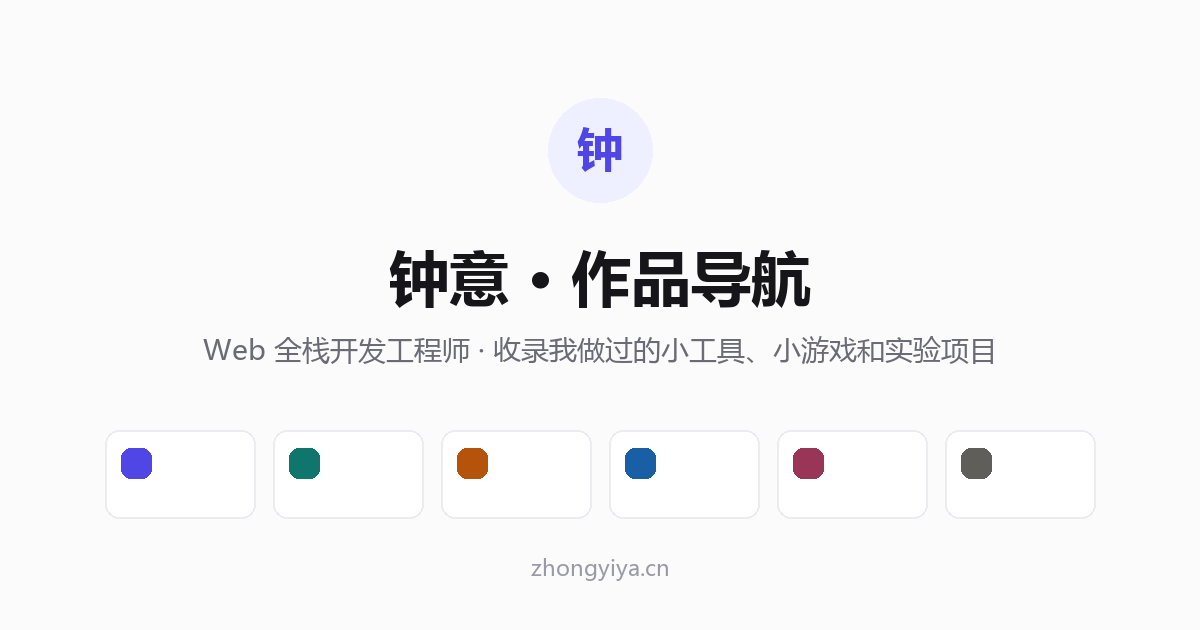
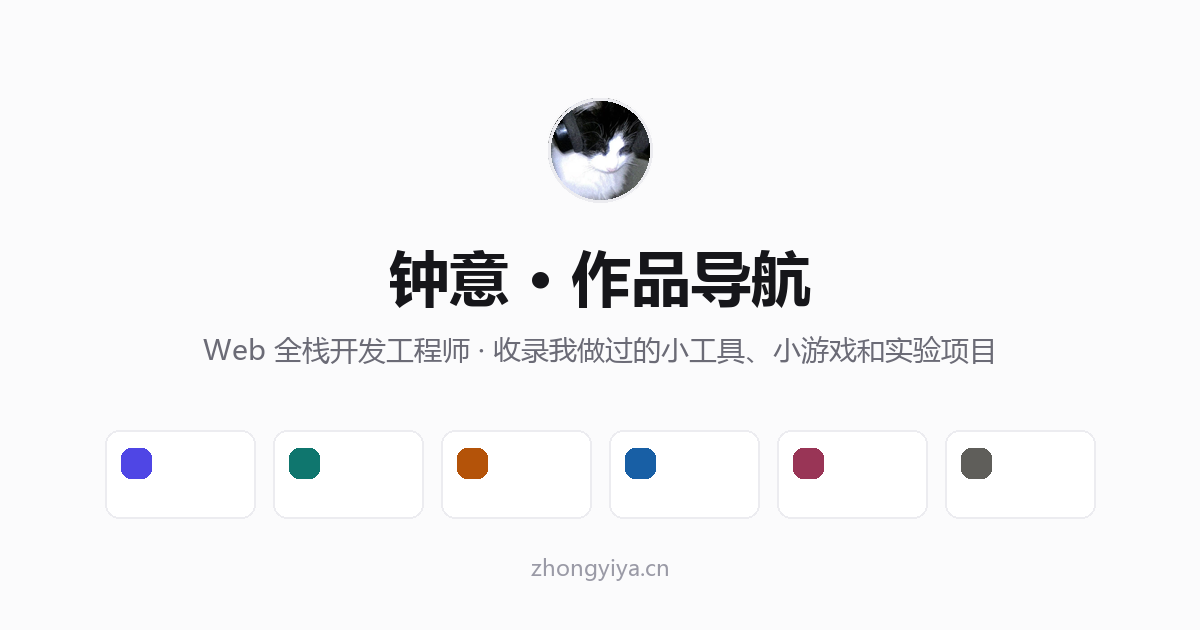
feat: 更换头像为猫咪照片（首页/关于我 + OG 分享封面）

Changed region(s): [[0.4625, 0.1508, 0.555, 0.3317]]

diff --git a/assets/data.js b/assets/data.js
@@ -13,7 +13,7 @@ window.SITE_CONFIG = {
     // 换成你自己的域名（不要带 https://，结尾不要斜杠）
     domain: 'zhongyiya.cn',
     // 头像：放一张图片到 assets/avatar.png，或留空自动用姓氏
-    avatar: '',
+    avatar: 'assets/avatar.jpg',
     year: 2026
   },
 

diff --git a/tools/gen-og.py b/tools/gen-og.py
@@ -48,14 +48,27 @@ def center(draw, y, text, f, fill):
 img = Image.new('RGB', (W, H), BG)
 d = ImageDraw.Draw(img)
 
-# 头像圆
+# 头像：优先用 assets/avatar.jpg 圆形裁剪，没有则回退姓氏首字
 r = 52
 cx, cy = W // 2, 150
-d.ellipse([cx - r, cy - r, cx + r, cy + r], fill=(238, 240, 255))
-initial = TITLE[0] if TITLE else 'Z'
-f_init = font(46, True)
-ib = d.textbbox((0, 0), initial, font=f_init)
-d.text((cx - (ib[2] - ib[0]) / 2 - ib[0], cy - (ib[3] - ib[1]) / 2 - ib[1]), initial, font=f_init, fill=ACCENT)
+avatar_path = os.path.join(ROOT, 'assets', 'avatar.jpg')
+if os.path.exists(avatar_path):
+    src = Image.open(avatar_path).convert('RGB')
+    side = min(src.size)
+    sx0 = (src.width - side) // 2
+    sy0 = (src.height - side) // 2
+    mask = Image.new('L', (side, side), 0)
+    ImageDraw.Draw(mask).ellipse([0, 0, side, side], fill=255)
+    avatar = src.crop((sx0, sy0, sx0 + side, sy0 + side)).resize((r * 2, r * 2), Image.LANCZOS)
+    mask = mask.resize((r * 2, r * 2), Image.LANCZOS)
+    img.paste(avatar, (cx - r, cy - r), mask)
+    d.ellipse([cx - r, cy - r, cx + r, cy + r], outline=BORDER, width=3)
+else:
+    d.ellipse([cx - r, cy - r, cx + r, cy + r], fill=(238, 240, 255))
+    initial = TITLE[0] if TITLE else 'Z'
+    f_init = font(46, True)
+    ib = d.textbbox((0, 0), initial, font=f_init)
+    d.text((cx - (ib[2] - ib[0]) / 2 - ib[0], cy - (ib[3] - ib[1]) / 2 - ib[1]), initial, font=f_init, fill=ACCENT)
 
 center(d, 236, TITLE, font(60, True), TEXT)
 center(d, 330, SUB, font(28), MUTED)
